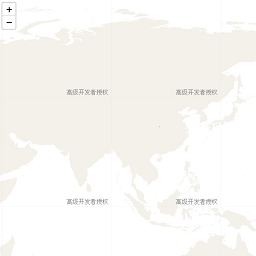
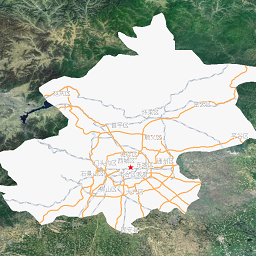
【站点】【修复】【修复Leaflet的OGC示例】

diff --git a/website/public/static/demo/leaflet/example/ogc/wms.htm b/website/public/static/demo/leaflet/example/ogc/wms.htm
@@ -1,45 +1,58 @@
 <!DOCTYPE html>
 <html xmlns="http://www.w3.org/1999/xhtml">
+    <head>
+        <meta http-equiv="Content-Type" content="text/html; charset=utf-8" />
+        <title>加载OGC的WMS图层</title>
+        <script src="./static/libs/include-leaflet-local.js"></script>
+        <script type="text/javascript">
+            /**显示地图
+             */
+            function init() {
+                'use strict';
+                //地图容器
+                var map = L.map('leaf_map', {
+                    //参考坐标系，默认是墨卡托坐标系（EPSG3857），EPSG4326为经纬度坐标系
+                    crs: L.CRS.EPSG4326,
+                    //显示中心
+                    center: [40.20, 116.39],
+                    //最小显示等级
+                    minZoom: 1,
+                    //最大显示等级
+                    maxZoom: 15,
+                    //当前显示等级
+                    zoom: 8,
+                    //限制显示地理范围
+                    maxBounds: L.latLngBounds(L.latLng(-180, -180), L.latLng(180, 180))
+                });
+                var { protocol, ip, port } = window.webclient;
+                // 天地图
+                var layer1 = new Zondy.Map.TDTLayer({
+                    //图层类型
+                    layerType: 'img',
+                    //最小显示等级
+                    minZoom: 0,
+                    //最大显示等级
+                    maxZoom: 15,
+                    //key
+                    token: '4c27d6e0e8a90715b23a989d42272fd8',
+                    //设置地图不连续显示
+                    noWrap: true
+                }).addTo(map);
+                //wms服务
+                var Layer = L.tileLayer
+                    .wms(`${protocol}://${ip}:${port}/igs/rest/ogc/doc/北京市/WMSServer?`, {
+                        //图层名称
+                        layers:
+                            '北京市,绿地_1,绿地_2,绿地_3,绿地_4,水域_3,水域_2,水域_1,大学,学校,动物园,高尔夫,观光胜地,果园,住宅用地,医院,商业用地,建筑物,铁路_1,铁路_2,铁路_3,主干道,主干道,高速公路_1,高速公路_1_9-10,三级道路_链接,三级道路,二级道路_链接,二级道路,一级道路_链接,一级道路,主干道_链接,主干道,主干道,高速公路_链接,高速公路_2,高速公路_2,三级道路_链接,三级道路,二级道路_链接,二级道路,一级道路_链接,一级道路,地铁,主干道_链接,主干道,主干道,高速公路_链接,高速公路_2,高速公路_2,地铁站POI,山顶,果园poi,汽车站点POI,大学poi,学校poi,中小学POI,幼儿园POI,医院POI,口腔医院POI,派出所POI,检察院POI,银行POI,邮局POI,体育馆POI,纪念碑POI,博物馆POI,名胜古迹点,动物园poi,观光胜地poi,主题公园POI,宾馆POI,百货店POI,便利店POI,书店POI,快餐POI,咖啡馆POI,电影院POI,高尔夫poi,村庄点,市镇点,区县点,首都点',
+                        //wms版本号
+                        version: '1.1.1'
+                    })
+                    .addTo(map);
+            }
+        </script>
+    </head>
 
-<head>
-    <meta http-equiv="Content-Type" content="text/html; charset=utf-8" />
-    <title>加载OGC的WMS图层</title>
-    <script src="./static/libs/include-leaflet-local.js"></script>
-    <script type="text/javascript">
-        /**显示地图
-        */
-        function init() {
-            "use strict";
-            //地图容器
-            var map = L.map('leaf_map', {
-                //参考坐标系，默认是墨卡托坐标系（EPSG3857），EPSG4326为经纬度坐标系
-                crs: L.CRS.EPSG4326,
-                //显示中心
-                center: [0, 0],
-                //最小显示等级
-                minZoom: 1,
-                //最大显示等级
-                maxZoom: 15,
-                //当前显示等级
-                zoom: 2,
-                //限制显示地理范围
-                maxBounds: L.latLngBounds(L.latLng(-180, -180), L.latLng(180, 180))
-            });
-            var { protocol, ip, port } = window.webclient;
-            //wms服务
-            var Layer = L.tileLayer.wms(`${protocol}://${ip}:${port}/igs/rest/ogc/layer/WorldJWLayer/WMSServer`, {
-                //图层名称
-                layers: '世界政区',
-                //wms版本号
-                version: '1.3.0'
-            }).addTo(map);
-        }
-    </script>
-</head>
-
-<body onload="init()">
-    <div id="leaf_map" style="width: 100%; height:700px;">
-    </div>
-</body>
-
+    <body onload="init()">
+        <div id="leaf_map" style="width: 100%; height: 700px"></div>
+    </body>
 </html>

diff --git a/website/public/static/demo/leaflet/example/ogc/wmts.htm b/website/public/static/demo/leaflet/example/ogc/wmts.htm
@@ -1,63 +1,64 @@
-<!DOCTYPE HTML PUBLIC "-//W3C//DTD XHTML 1.0 Transitional//EN" "http://www.w3.org/TR/xhtml1/DTD/xhtml1-transitional.dtd">
+<!DOCTYPE html PUBLIC "-//W3C//DTD XHTML 1.0 Transitional//EN" "http://www.w3.org/TR/xhtml1/DTD/xhtml1-transitional.dtd">
 <html xmlns="http://www.w3.org/1999/xhtml">
+    <head>
+        <title>加载OGC的WMTS图层</title>
+        <script src="./static/libs/include-leaflet-local.js"></script>
+        <script type="text/javascript">
+            /**显示地图
+             */
+            function init() {
+                'use strict';
+                //地图容器
+                var map = L.map('leaf_map', {
+                    //参考坐标系，默认是墨卡托坐标系（EPSG3857），EPSG4326为经纬度坐标系
+                    crs: L.CRS.EPSG4326,
+                    //显示中心
+                    center: [40.2, 116.39],
+                    //最小显示等级
+                    minZoom: 1,
+                    //最大显示等级
+                    maxZoom: 15,
+                    //当前显示等级
+                    zoom: 8
+                });
 
-<head>
-    <title>加载OGC的WMTS图层</title>
-    <script src="./static/libs/include-leaflet-local.js"></script>
-    <script type="text/javascript">
-        /**显示地图
-         */
-        function init() {
-            "use strict";
-            var ls = '+proj=longlat+ellps=krass+lon_0=0 +a=6378245 +b=6356863.01877305+units=degree no_defs';
-            //114.125602229914,30.4539323507469,114.500788705197,30.8291188260302
-            var resolution = Math.max((114.500788705197 - 114.125602229914), (30.8291188260302 - 30.4539323507469)) /
-                256;
-            var WGS84_resolutions = [];
-            for (var i = 0; i < 6; i++) {
-                WGS84_resolutions.push(resolution / (Math.pow(2, i)));
+                var { protocol, ip, port } = window.webclient;
+                // 天地图
+                var layer1 = new Zondy.Map.TDTLayer({
+                    //图层类型
+                    layerType: 'img',
+                    //最小显示等级
+                    minZoom: 0,
+                    //最大显示等级
+                    maxZoom: 15,
+                    //key
+                    token: '4c27d6e0e8a90715b23a989d42272fd8',
+                    //设置地图不连续显示
+                    noWrap: true
+                }).addTo(map);
+
+                //wmts服务
+                var layer3 = new Zondy.Map.MapWMTSLayer({
+                    //IGServer所在ip地址
+                    ip: `${ip}`,
+                    //IGServer请求端口号
+                    port: `${port}`,
+                    tilematrixSet: 'EPSG:4326_北京市_arcgis_GB',
+                    //wmts服务名称
+                    layer: 'beijing'
+                }).addTo(map);
+
+                L.circle([40.2, 116.39], {
+                    radius: 10,
+                    color: 'red',
+                    fillColor: '#f03',
+                    fillOpacity: 1
+                }).addTo(map);
             }
+        </script>
+    </head>
 
-            var m_WGS84 = Zondy.Proj.CRS("aaa", {
-                def: ls,
-                origin: [114.125602229914, 30.8291188260302],
-                resolutions: WGS84_resolutions,
-                bounds: window.L.bounds([114.125602229914, 30.4539323507469], [114.500788705197,
-                    30.8291188260302
-                ])
-            });
-
-            //地图容器
-            var map = L.map('leaf_map', {
-                crs: m_WGS84
-            }).setView([(30.708764095603 + 30.4539323507469) / 2, (114.500706988372 +
-            114.125602229914) / 2], 2);
-
-            var { protocol, ip, port } = window.webclient;
-            //wmts服务
-            var layer3 = new Zondy.Map.MapWMTSLayer({
-                //IGServer所在ip地址
-                ip: `${ip}`,
-                //IGServer请求端口号
-                port: `${port}`,
-                tilematrixSet: "EPSG:4326_WhMapTileOld_dpi96_GB",
-                //wmts服务名称
-                layer: 'WhMapTileWMTS',
-            }).addTo(map);
-
-            L.circle([30.641511, 114.33982], {
-                radius: 10,
-                color: 'red',
-                fillColor: '#f03',
-                fillOpacity: 1
-            }).addTo(map);
-        }
-    </script>
-</head>
-
-<body onload="init()">
-<div id="leaf_map" style="width: 100%; height:700px;">
-</div>
-</body>
-
+    <body onload="init()">
+        <div id="leaf_map" style="width: 100%; height: 700px"></div>
+    </body>
 </html>

diff --git a/website/public/static/demo/cesium/example/vue/control/link.htm b/website/public/static/demo/cesium/example/vue/control/link.htm
@@ -32,6 +32,19 @@
                 bottom: 0px;
                 right: 0px;
             }
+            .control {
+                position: absolute;
+                z-index: 9999;
+                background: #ffffff;
+                top: 47.2vh;
+                left: 47.5vw;
+                width: 5vw;
+                height: 5vh;
+                border-radius: 12px;
+            }
+            .active {
+                background: #41b883;
+            }
         </style>
     </head>
 
@@ -60,7 +73,7 @@
                     pluginPath="./static/libs/cdn/cesium/webclient-cesium-plugin.js"
                 >
                     <cesium-raster-layer v-bind:url="url2"> </cesium-raster-layer>
-                    <cesium-link v-bind:enable="link"></cesium-link>
+                    <!-- <cesium-link v-bind:enable="link"></cesium-link> -->
                 </cesium-web-globe>
             </div>
             <div class="item bottom-left">
@@ -73,7 +86,7 @@
                     pluginPath="./static/libs/cdn/cesium/webclient-cesium-plugin.js"
                 >
                     <cesium-raster-layer v-bind:url="url3"> </cesium-raster-layer>
-                    <cesium-link v-bind:enable="link"></cesium-link>
+                    <!-- <cesium-link v-bind:enable="link"></cesium-link> -->
                 </cesium-web-globe>
             </div>
             <div class="item bottom-right">
@@ -86,17 +99,20 @@
                     pluginPath="./static/libs/cdn/cesium/webclient-cesium-plugin.js"
                 >
                     <cesium-ogc-wmts-layer v-bind:url="url4" v-bind:options="wmtsoptions"></cesium-ogc-wmts-layer>
-                    <cesium-link v-bind:enable="link"></cesium-link>
+                    <!-- <cesium-link v-bind:enable="link"></cesium-link> -->
                 </cesium-web-globe>
             </div>
+            <div v-bind:class="{'control': true, active: link}" v-on:click="changeMode"></div>
         </div>
         <script>
             let draw = new Vue({
                 el: '#app',
                 data() {
                     return {
-                        webgloberef1: 'webgloberef' + Math.random(),
-                        webgloberef2: 'webgloberef' + Math.random(),
+                        webgloberef1: 'webgloberef1',
+                        webgloberef2: 'webgloberef2',
+                        webgloberef3: 'webgloberef3',
+                        webgloberef4: 'webgloberef4',
                         link: true,
                         url1: 'https://map.geoq.cn/arcgis/rest/services/ChinaOnlineStreetPurplishBlue/MapServer/tile/{z}/{y}/{x}',
                         url2: 'http://mt0.google.cn/vt/lyrs=m&hl=zh-CN&x={x}&y={y}&z={z}',
@@ -111,6 +127,9 @@
                 methods: {
                     handleLoad(e) {
                         console.log('地图加初始化完毕！', e);
+                    },
+                    changeMode() {
+                        this.link = !this.link;
                     }
                 }
             });

diff --git a/website/public/static/demo/leaflet/example/internet/osm.htm b/website/public/static/demo/leaflet/example/internet/osm.htm
@@ -1,35 +1,34 @@
 <!DOCTYPE html>
 <html xmlns="http://www.w3.org/1999/xhtml">
-<head>
-    <meta http-equiv="Content-Type" content="text/html; charset=utf-8"/>
-    <title>OSM地图显示</title>
-    <script src="./static/libs/include-leaflet-local.js"></script>
-    <script type="text/javascript">
-        /**显示地图
-         */
-        function init() {
-            "use strict";
-            var osmUrl='http://c.tile.openstreetmap.org/{z}/{x}/{y}.png';
-            var Layer = L.tileLayer(osmUrl, {minZoom: 5, maxZoom: 18});
+    <head>
+        <meta http-equiv="Content-Type" content="text/html; charset=utf-8" />
+        <title>OSM地图显示</title>
+        <script src="./static/libs/include-leaflet-local.js"></script>
+        <script type="text/javascript">
+            /**显示地图
+             */
+            function init() {
+                'use strict';
+                var osmUrl = 'http://c.tile.openstreetmap.org/{z}/{x}/{y}.png';
+                var Layer = L.tileLayer(osmUrl, { minZoom: 5, maxZoom: 18 });
 
-            //地图容器
-            var map = L.map('leaf_map', {
-                //显示中心
-                center: [30.495722001885323,114.39960479736327],
-                //最小显示等级
-                minZoom: 0,
-                //最大显示等级
-                maxZoom: 15,
-                //当前显示等级
-                zoom: 11,
-                //图层
-                layers:Layer
-            });
-        }
-    </script>
-</head>
-<body onload="init()">
-<div id="leaf_map" style="width: 100%; height:700px;">
-</div>
-</body>
+                //地图容器
+                var map = L.map('leaf_map', {
+                    //显示中心
+                    center: [30.495722001885323, 114.39960479736327],
+                    //最小显示等级
+                    minZoom: 0,
+                    //最大显示等级
+                    maxZoom: 15,
+                    //当前显示等级
+                    zoom: 11,
+                    //图层
+                    layers: Layer
+                });
+            }
+        </script>
+    </head>
+    <body onload="init()">
+        <div id="leaf_map" style="width: 100%; height: 700px"></div>
+    </body>
 </html>

diff --git a/website/public/static/demo/mapboxgl/example/ogc/wfs.htm b/website/public/static/demo/mapboxgl/example/ogc/wfs.htm
@@ -15,7 +15,7 @@
       position: absolute;
       bottom: 0;
       width: 100%;
-      height: 100%;
+      height: 100vh;
     }
   </style>
   <script>

diff --git a/website/public/static/demo/mapboxgl/example/ogc/wms.htm b/website/public/static/demo/mapboxgl/example/ogc/wms.htm
@@ -14,7 +14,7 @@
       position: absolute;
       bottom: 0;
       width: 100%;
-      height: 100%;
+      height: 100vh;
     }
   </style>
   <script>

diff --git a/website/public/static/demo/mapboxgl/example/ogc/wmts.htm b/website/public/static/demo/mapboxgl/example/ogc/wmts.htm
@@ -14,7 +14,7 @@
       position: absolute;
       bottom: 0;
       width: 100%;
-      height: 100%;
+      height: 100vh;
     }
   </style>
   <script>
